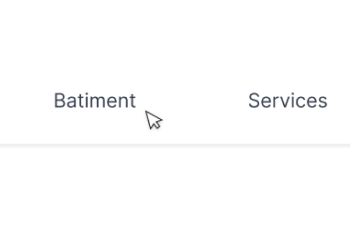
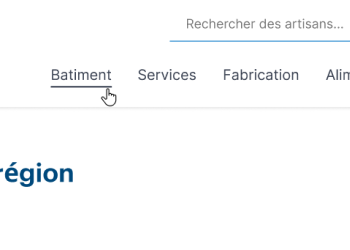
Added display improvements in the header and the step component

diff --git a/src/app/data-steps.service.ts b/src/app/data-steps.service.ts
@@ -25,7 +25,7 @@ export class DataStepsService {
       altImg: "curseur pointé vers le profil d'un artisan",
       stepSubtitle: "Choisissez un artisan",
       description: `Sélectionnez l'artisan de la liste qui vous a le plus séduit.
-        Référez-vous sur les informations de son profil pour faire votre choix
+        Référez vous sur les informations de son profil pour faire votre choix
         (avis, spécialité, localisation).`
     },
 

diff --git a/src/app/components/header-2/menu-laptop/menu-laptop.component.scss b/src/app/components/header-2/menu-laptop/menu-laptop.component.scss
@@ -38,7 +38,7 @@
 .batiment {
   .b-link {
     &::before {
-      width: 63.59px;
+      width: 67.5px;
     }
   }
 }
@@ -46,7 +46,7 @@
 .services {
   .s-link {
     &::before {
-      width: 59.1px;
+      width: 62.1px;
     }
   }
 }
@@ -54,7 +54,7 @@
 .fabrication {
   .f-link {
     &::before {
-      width: 80px;
+      width: 82px;
     }
   }
 }

diff --git a/src/app/components/not-found-page/not-found-page.component.ts b/src/app/components/not-found-page/not-found-page.component.ts
@@ -5,6 +5,4 @@ import { Component } from '@angular/core';
   templateUrl: './not-found-page.component.html',
   styleUrl: './not-found-page.component.scss'
 })
-export class NotFoundPageComponent {
-
-}
+export class NotFoundPageComponent {}

diff --git a/src/app/components/liste-artisans/liste-artisans.component.scss b/src/app/components/liste-artisans/liste-artisans.component.scss
@@ -21,6 +21,12 @@ h1 {
   display: grid;
 }
 
+@media #{$mobile-max} {
+  .liste-artisans {
+    gap: 3rem;
+  }
+}
+
 @media #{$tablet-up} {
   .liste-artisans {
     display: flex;
